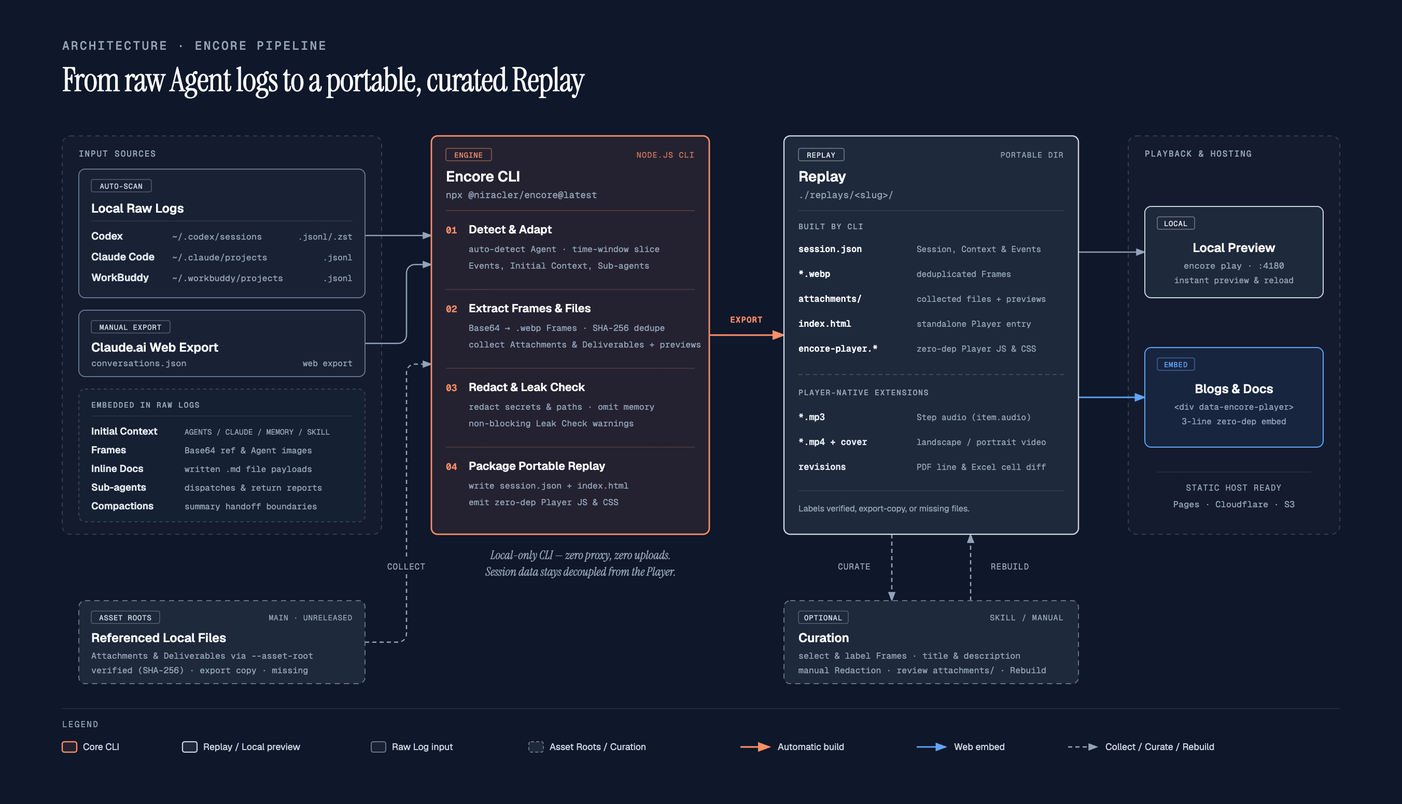
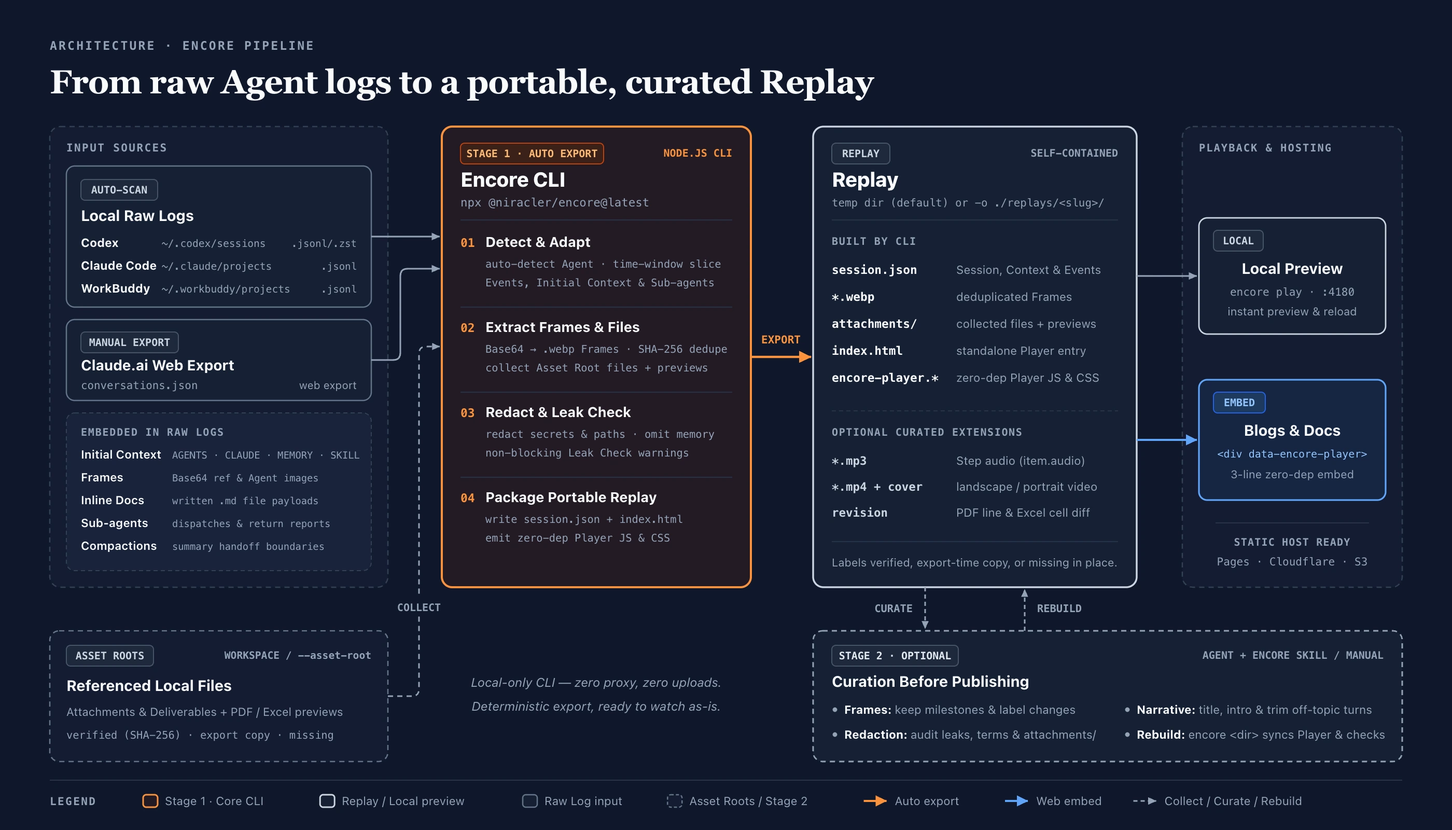
docs(readme): streamline bilingual docs, FAQ, and architecture diagrams

diff --git a/README.md b/README.md
@@ -30,7 +30,9 @@ Requires **Node.js >= 20.10**. No global install needed.
 npx @niracler/encore@latest
 ```
 
-Choose a recent session to open its replay in your browser.
+The interactive picker scans recent local **Codex**, **Claude Code**, and **WorkBuddy** sessions and opens the selected replay in your browser. You can also pass a `.jsonl` or `.jsonl.zst` raw log, or a Claude.ai `conversations.json` export directly.
+
+Without `-o`, replays write to a temporary directory. Pass `-o <dir>` to keep a portable copy for publishing; see `npx @niracler/encore@latest --help` for all commands and options.
 
 ---
 
@@ -40,26 +42,32 @@ Choose a recent session to open its replay in your browser.
   <picture>
     <source media="(prefers-color-scheme: dark)" srcset="./docs/architecture-en-dark.webp">
     <source media="(prefers-color-scheme: light)" srcset="./docs/architecture-en-light.webp">
-    <img src="./docs/architecture-en-light.webp" alt="Encore architecture: from raw Agent logs and referenced local files in Asset Roots to a portable Replay and standalone Player" width="100%">
+    <img src="./docs/architecture-en-light.webp" alt="Encore architecture: from raw Agent logs and referenced local files in Asset Roots, through automatic CLI export and optional pre-publish Curation, to a portable Replay and standalone Player" width="100%">
   </picture>
 </p>
 
-- **Local-only processing**: Adapters, WebP frame extraction, and automatic redaction all run locally in Node.js. Nothing is uploaded.
-- **Decoupled Session and Player**: `session.json`, extracted `.webp` frames, and collected files sit beside the zero-dependency player, so curation edits appear on browser reload.
-- **Explicit file collection (`main`, unreleased)**: On `main` ([Unreleased](./CHANGELOG.md#unreleased)), Encore collects locally referenced attachments and deliverables within allowed asset roots, generates in-place PDF and workbook previews, and labels each file as verified (matching SHA-256), an export-time copy, or missing. Quick Start runs npm release `0.2.0`, which extracts only embedded media and inline `.md` documents.
+- **Local-only processing**: Adapters, `.webp` frame extraction, automatic redaction, and leak checks all run locally in Node.js. Nothing is uploaded.
+- **Decoupled Session and Player**: `session.json`, extracted `.webp` frames, and collected files live beside the zero-dependency player, so edits to `session.json` appear on browser reload.
+- **Explicit file collection boundaries**: Encore collects locally referenced attachments and deliverables within allowed asset roots (defaulting to the current directory and native session workspace; override with `--asset-root`), builds in-place PDF and workbook previews, and labels each file as verified (matching SHA-256), an export-time copy, or missing.
 
 ---
 
 ## Curating Before Publishing (Optional)
 
-For personal review or internal archiving, the CLI export is ready to watch as-is—no skill needed.
+For personal review or internal archiving, the CLI export is ready to watch as-is—no skill needed. When preparing a replay for a blog, course, or public showcase, pair the export with the companion `encore` skill for a semantic curation pass.
 
-Before publishing a replay to a blog, course, or showcase, raw exports usually need an editorial pass: picking milestone frames, writing a clear title and opening description, trimming off-topic turns, and removing internal names that regex cannot catch. Because that requires reading context and inspecting images, Encore ships a companion `encore` skill for your Agent:
+**What the CLI handles automatically**
 
-| Stage | Handled by | What it does |
-| --- | --- | --- |
-| **Export** | Encore CLI (deterministic) | Converts the raw log, extracts `.webp` frames, redacts common secrets, paths, emails, and private IPs, and builds a standalone replay |
-| **Curate** | Agent + `encore` skill (semantic) | Inspects and labels milestone frames, writes the title and opening description, redacts internal codenames, names, and figures, trims off-topic turns, and rebuilds the replay |
+- Adapts the raw log, extracts deduplicated `.webp` frames, collects referenced attachments and deliverables from asset roots, and builds in-place previews
+- Redacts common API keys, private keys, JWTs, database URLs, emails, private IPs, and home paths, omits cross-session `MEMORY_SUMMARY` and user-level `CLAUDE.md` bodies by default, and runs a non-blocking leak check
+- Packages a standalone replay directory with the zero-dependency player
+
+**What the `encore` skill adds during curation**
+
+- **Curate & label frames**: Inspects `.webp` frames, drops noisy intermediate states, keeps key milestones, and replaces fallback labels with concrete descriptions
+- **Write intro & trim turns**: Drafts a concise `title` and opening `description` from full context, and trims off-topic opening or closing turns
+- **Manual redaction & file review**: Reviews leak check warnings, removes internal codenames, people's names, and business figures regex cannot detect, and audits raw files in `attachments/`
+- **Lossless rebuild**: Runs `npx @niracler/encore@latest <replay-dir>` to refresh player assets and previews, sync `<title>`, drop deleted frame references, and re-run the leak check without overwriting curation edits or added media
 
 Install the skill globally (or copy [`skills/encore/SKILL.md`](./skills/encore/SKILL.md) manually):
 
@@ -73,13 +81,13 @@ Then ask your Agent from any workspace:
 Use the encore skill to export my latest session and curate it for publishing.
 ```
 
-**Before sharing**: Automatic redaction only rewrites `session.json`; it never modifies copied PDFs, workbooks, images, or videos in `attachments/`. Review `session.json`, every kept `.webp` frame, and all packaged attachments and deliverables before publishing.
+> **Review before sharing**: Automatic redaction only rewrites `session.json`; it never modifies copied PDFs, workbooks, images, or videos in `attachments/`. Review `session.json`, every kept `.webp` frame, and all packaged attachments and deliverables before publishing.
 
 ---
 
 ## Embedding on Any Site
 
-Deploy the generated replay directory to GitHub Pages, Cloudflare Pages, Vercel, or any static host—or embed the player in an existing HTML page with three lines:
+Export with `-o ./replays/<slug>` and deploy the entire replay directory to GitHub Pages, Cloudflare Pages, Vercel, or any static host—or embed the player in an existing HTML page with three lines:
 
 ```html
 <link rel="stylesheet" href="./encore-player.css">
@@ -87,44 +95,10 @@ Deploy the generated replay directory to GitHub Pages, Cloudflare Pages, Vercel,
 <script src="./encore-player.js" defer></script>
 ```
 
-Omit `data-lang` to follow the language set in `session.json`.
+Omit `data-lang` to follow the language set in `session.json`. The player also natively renders optional curated extensions in `session.json`, including per-step audio (`item.audio`), landscape/portrait video switching, and PDF/workbook revision diffs.
 
 <details>
-<summary><strong>CLI Reference &amp; <code>session.json</code> Schema</strong></summary>
-
-### CLI Options
-
-The interactive picker scans `~/.codex/sessions`, `~/.claude/projects`, and `~/.workbuddy/projects`. You can also pass a `.jsonl` or `.jsonl.zst` raw log, or a Claude.ai `conversations.json` export directly.
-
-```text
-Usage:
-  encore                              Scan recent Codex, Claude Code & WorkBuddy sessions and pick one interactively
-  encore <log.jsonl | dir> [options]  Build a replay from a raw log, or rebuild an existing replay directory
-  encore play <dir> [--port 4180]     Start local preview server for an existing replay directory
-
-Options:
-  -o, --out <dir>          Output directory (default: temporary directory on main; ./replays/<session-slug> in 0.2.0)
-      --asset-root <dir>   Set allowed asset roots for attachments and deliverables (repeatable; unreleased on main)
-  -l, --lang <zh|en|auto>  Player UI language (default: auto; also toggleable in the topbar)
-      --title <text>       Override session title
-      --desc <text>        Set opening description shown before playback starts
-      --from <iso-time>    Start time window filter (e.g. 2026-11-10T09:00)
-      --to <iso-time>      End time window filter
-      --no-images          Skip extracting embedded images to .webp
-      --image-width <px>   Max width for extracted WebP frames (default: 960)
-      --clip <chars>       Max chars per tool input/output (default: 1500/2000)
-      --conversation <id>  Conversation UUID for multi-chat Claude.ai exports
-      --include-memory     Include full cross-session MEMORY_SUMMARY and user-level CLAUDE.md text (omitted by default)
-      --list               List recent local sessions without interactive prompt
-      --serve              Start local HTTP preview server after building
-      --no-serve           Do not start local HTTP preview server
-      --no-open            Do not automatically open browser when serving
-  -p, --port <number>      Preview server port (default: 4180)
-  -v, --version            Show version number
-  -h, --help               Show help message
-```
-
-### `session.json` Schema
+<summary><strong><code>session.json</code> Schema</strong></summary>
 
 Formal JSON Schema: [`schema/session.schema.json`](./schema/session.schema.json) (`https://encore.niracler.com/schema/session.schema.json`) · TypeScript Definitions: [`src/index.d.ts`](./src/index.d.ts)
 
@@ -150,28 +124,38 @@ Formal JSON Schema: [`schema/session.schema.json`](./schema/session.schema.json)
 
 </details>
 
-<details>
-<summary><strong>FAQ</strong></summary>
+---
 
-**Does Encore upload my logs? How does redaction work?**
-No. Everything runs locally. During export, automatic redaction hides common API keys, private keys, JWTs, database credentials, emails, private IPs, and home directory paths (`~`). Cross-session `MEMORY_SUMMARY` and user-level `CLAUDE.md` bodies are omitted by default, and the leak check flags suspicious internal domains or URL token parameters without blocking export. Project codenames, business figures, and sensitive content inside frames, attachments, or deliverables still require manual review.
+## FAQ
 
-**Will deleting the original log or workspace files break a replay?**
-Everything packaged inside the replay directory (`session.json`, `.webp` frames, `attachments/`, and player files) stays playable after the raw log or workspace files are removed. Keep the replay directory intact; links to external URLs still depend on their hosts.
+### Does Encore upload my logs? How does redaction work?
 
-**Why doesn't double-clicking `index.html` (`file://`) work?**
-The player loads `./session.json` with `fetch()`, which browsers block on `file://` URLs for security reasons. Preview locally with `npx @niracler/encore@latest play ./replays/<session-slug>`, or serve the folder from any static host.
+**No—everything runs locally.**
 
-**Why is an attachment or deliverable missing, or marked as an export-time copy?**
-On `main` (unreleased), Encore collects locally referenced files from messages and handoff tools within allowed asset roots (defaulting to the current directory and native session workspace; override with `--asset-root`). Files written silently by shell commands may not be referenced, and missing files keep only their filename in place. When a file is found, the player marks it as verified only if its SHA-256 matches a digest recorded during the session; otherwise it is labeled as an export-time copy.
+- **Automatic redaction**: Hides common API keys, private keys, JWTs, database URLs, emails, private IPs, and home directory paths (replaced with `~`), omits cross-session `MEMORY_SUMMARY` and user-level `CLAUDE.md` bodies by default, and runs a non-blocking leak check.
+- **Manual review still needed**: Project codenames, business figures, and raw files copied into `attachments/` (PDFs, workbooks, images, videos) are never rewritten automatically.
 
-**Are the context-window token counts exact billing figures?**
-No—context snapshots visualize structure and growth rather than provider billing. When a raw log records actual token counts (including `preTokens` and `postTokens` around compactions), Encore displays them directly; when per-step totals or the 7 context categories are missing, Encore estimates proportions from content length.
+### Why doesn't double-clicking `index.html` work?
 
-**What if a raw replay is too long or has too many frames?**
-Pass `--from` and `--to` (ISO timestamps) to slice a specific time window during export. You can also curate `frames[]`, `items[]`, `title`, and `description` in `session.json`, then run `npx @niracler/encore@latest ./replays/<session-slug>` to rebuild player assets, sync `<title>`, drop references to deleted frames, and re-run the leak check. Rebuilding an existing replay preserves curation edits and added media, whereas re-importing from the raw log regenerates `.webp` frames.
+Browser security rules block `fetch('./session.json')` on `file://` URLs. Open the replay through the local preview server, or deploy the folder to any static host:
 
-</details>
+```bash
+npx @niracler/encore@latest play ./replays/<slug>
+```
+
+### Will deleting the raw log or source files break a replay?
+
+**No.** A replay directory is a self-contained static bundle (`session.json`, `.webp` frames, `attachments/`, and player assets). Keep the directory intact; only external URLs still depend on their hosts.
+
+### Why is an attachment labeled as an export-time copy or missing?
+
+- **Verified**: Found inside an allowed asset root with a SHA-256 matching the digest recorded in the session.
+- **Export-time copy**: Found at export time, but no matching session digest exists or the file changed afterward.
+- **Missing / Outside asset roots**: Referenced in the log, but absent on disk or outside the allowed asset roots (pass `--asset-root` to include another directory; the filename stays visible under the message).
+
+### Are token counts in the Context Snapshot exact billing figures?
+
+**No.** They visualize context structure and growth: when a raw log includes real token counts (including `preTokens` / `postTokens` around compactions), Encore displays them directly; when per-step totals or category breakdowns are missing, it estimates from content length.
 
 ---
 

diff --git a/README.zh-CN.md b/README.zh-CN.md
@@ -30,7 +30,9 @@
 npx @niracler/encore@latest
 ```
 
-选择一段最近的会话，浏览器就会打开回放。
+命令会扫描本机最近的 **Codex**、**Claude Code** 与 **WorkBuddy** 会话，选中后在浏览器中打开回放；也可以直接传入 `.jsonl`、`.jsonl.zst` 或 Claude.ai 导出的 `conversations.json`。
+
+未传 `-o` 时，回放默认写入系统临时目录；需要保存可移植副本或部署时，传入 `-o <目录>`。完整子命令与选项见 `npx @niracler/encore@latest --help`。
 
 ---
 
@@ -40,26 +42,32 @@ npx @niracler/encore@latest
   <picture>
     <source media="(prefers-color-scheme: dark)" srcset="./docs/architecture-zh-dark.webp">
     <source media="(prefers-color-scheme: light)" srcset="./docs/architecture-zh-light.webp">
-    <img src="./docs/architecture-zh-light.webp" alt="Encore 处理架构：从原始 Agent 日志与资产根目录内的本地文件，到可独立托管的回放目录与零依赖播放器" width="100%">
+    <img src="./docs/architecture-zh-light.webp" alt="Encore 处理架构：从原始 Agent 日志与资产根目录内的本地文件，经 CLI 自动导出与可选的发布前整理，生成可独立托管的回放目录与零依赖播放器" width="100%">
   </picture>
 </p>
 
-- **全本地离线运行**：日志适配、WebP 画面帧转码与自动脱敏都在本地 Node.js 环境中完成，不上传任何数据。
-- **会话数据与播放器分离**：`session.json`、提取出的 `.webp` 画面帧和收录文件与零依赖播放器同目录存放，整理修改后刷新页面即可生效。
-- **明确的文件收集边界（`main` 未发布）**：在 `main` 分支（[未发布更新](./CHANGELOG.md#unreleased)）中，Encore 会收集资产根目录内日志明确引用的附件与交付物，生成 PDF 与表格的页内预览，并在原消息下标注「已核对版本」「导出时的副本」或「原文件缺失」。上方快速开始命令运行的是 npm 已发布的 `0.2.0` 版本，仅提取内嵌媒体与内联 `.md` 文稿。
+- **全本地离线运行**：日志适配、`.webp` 画面帧转码、自动脱敏与泄露检查都在本地 Node.js 环境中完成，不上传任何数据。
+- **会话数据与播放器分离**：`session.json`、提取出的 `.webp` 画面帧与收录文件都与零依赖播放器同目录存放，编辑 `session.json` 后刷新页面即可生效。
+- **明确的文件收集边界**：自动收集允许的资产根目录（默认为当前工作目录与原始会话工作区，可用 `--asset-root` 覆盖）内日志明确引用的附件与交付物，生成 PDF 与表格的页内预览，并在原消息下标注「已核对版本」「导出时的副本」或「原文件缺失」。
 
 ---
 
 ## 发布前整理（可选）
 
-如果只是个人复盘或内部留档，CLI 导出的回放已经可以直接看，不需要安装技能。
+个人复盘或内部留档时，CLI 导出的回放已经可以直接观看，不需要安装技能。准备公开发布到博客、课程或展示页时，可以配合 `encore` 技能在导出结果上做一轮语义整理。
 
-如果要把回放公开发布到博客、课程或展示页，原始导出通常还需要一轮整理：筛选关键画面帧、撰写清晰的标题与开场说明、裁剪无关轮次，并去掉正则识别不出的内部名称与业务细节。这些步骤需要读懂上下文和查看图片，因此 Encore 配套提供了给 Agent 使用的 `encore` 技能：
+**CLI 自动导出已完成**
 
-| 阶段 | 执行方式 | 完成的工作 |
-| --- | --- | --- |
-| **导出** | Encore CLI（确定性处理） | 转换原始日志、提取 `.webp` 画面帧，对常见密钥、本机路径、邮箱与内网 IP 自动脱敏，并生成独立回放 |
-| **整理** | Agent + `encore` 技能（语义整理） | 逐张查看并标注里程碑画面帧、撰写标题与开场说明、脱敏内部代号、人名与业务数据、裁剪无关轮次，并重建回放 |
+- 转换原始日志，提取去重 `.webp` 画面帧，收集资产根目录内引用的附件与交付物并生成页内预览
+- 对常见密钥、私钥、JWT、数据库连接串、邮箱、内网 IP 与本机路径自动脱敏，默认省略 `MEMORY_SUMMARY` 与用户级 `CLAUDE.md` 正文，并输出非阻塞泄露检查预警
+- 打包独立的回放目录与零依赖播放器
+
+**`encore` 技能负责发布前整理**
+
+- **筛选与标注画面帧**：逐张查看 `.webp` 画面帧，剔除报错与冗余中间态，只保留里程碑画面并写清变化标签
+- **撰写导读与裁剪轮次**：结合上下文撰写标题（`title`）与开场说明（`description`），删去首尾无关轮次
+- **人工脱敏与附件复核**：处理泄露检查预警，清理正则识别不出的内部代号、人名与业务数据，并核对 `attachments/` 中的原件
+- **无损重建同步**：整理完成后运行 `npx @niracler/encore@latest <回放目录>`，刷新播放器与预览、同步页面 `<title>`、清理已删画面帧引用并重跑泄露检查（保留整理修改与补充媒体）
 
 全局安装该技能（或手动复制 [`skills/encore/SKILL.md`](./skills/encore/SKILL.md)）：
 
@@ -73,13 +81,13 @@ npx skills add niracler/encore -g
 用 encore 技能把我刚才那段对话导出并整理一下。
 ```
 
-**公开分享前请复核**：自动脱敏只改写 `session.json`，不会修改 `attachments/` 中复制进来的 PDF、工作簿、图片或视频原件。发布前请检查 `session.json`、保留的 `.webp` 画面帧，以及所有打包的附件和交付物。
+> **公开分享前请复核**：自动脱敏只改写 `session.json`，不会修改 `attachments/` 中复制进来的 PDF、工作簿、图片或视频原件。发布前请检查 `session.json`、保留的 `.webp` 画面帧以及所有打包的附件和交付物。
 
 ---
 
 ## 嵌入网页
 
-将生成的回放目录部署到 GitHub Pages、Cloudflare Pages、Vercel 或任意静态托管服务即可直接访问，也可通过 3 行代码嵌入已有 HTML 页面：
+使用 `-o ./replays/<会话短名>` 导出后，将整个回放目录部署到 GitHub Pages、Cloudflare Pages、Vercel 或任意静态托管服务即可直接访问，也可通过 3 行代码嵌入已有 HTML 页面：
 
 ```html
 <link rel="stylesheet" href="./encore-player.css">
@@ -87,44 +95,10 @@ npx skills add niracler/encore -g
 <script src="./encore-player.js" defer></script>
 ```
 
-省略 `data-lang` 时，界面语言自动跟随 `session.json` 的设置。
+省略 `data-lang` 时，界面语言自动跟随 `session.json` 的设置。播放器同时原生支持在 `session.json` 中手动挂载步骤音频（`item.audio`）、横竖屏视频切换与 PDF / 表格修订对照。
 
 <details>
-<summary><strong>CLI 参数与 <code>session.json</code> 结构</strong></summary>
-
-### CLI 参数
-
-会话选择器扫描 `~/.codex/sessions`、`~/.claude/projects` 和 `~/.workbuddy/projects`。也可以直接传入 `.jsonl`、`.jsonl.zst` 日志或 Claude.ai 导出的 `conversations.json`。
-
-```text
-用法：
-  encore                              扫描本机最近的 Codex、Claude Code 与 WorkBuddy 会话，上下键选择导出
-  encore <log.jsonl | dir> [options]  从原始日志生成回放目录，或重建已有回放目录
-  encore play <dir> [--port 4180]     启动本地预览服务
-
-常用参数：
-  -o, --out <dir>          输出目录（main 默认为系统临时目录；0.2.0 为 ./replays/<会话短名>）
-      --asset-root <dir>   指定允许收集附件与交付物的资产根目录，可重复使用（main 未发布功能）
-  -l, --lang <zh|en|auto>  界面语言（默认：auto，网页右上角也可一键切换）
-      --title <text>       自定义回放标题
-      --desc <text>        自定义开场导读说明
-      --from <iso-time>    起始时间切片（如 2026-11-10T09:00）
-      --to <iso-time>      结束时间切片
-      --no-images          不提取内嵌图片
-      --image-width <px>   提取的 WebP 最大宽度（默认：960）
-      --clip <chars>       单条工具输入/输出最大保留字符数（默认：1500/2000）
-      --conversation <id>  Claude.ai 多会话导出包中指定会话 UUID
-      --include-memory     保留完整的跨会话 MEMORY_SUMMARY 与用户级 CLAUDE.md 正文（默认省略正文）
-      --list               仅列出本机最近会话，不进入交互菜单
-      --serve              生成后启动本地预览服务
-      --no-serve           生成文件后直接退出，不启动本地预览服务
-      --no-open            启动预览服务时不自动打开浏览器
-  -p, --port <number>      本地预览端口（默认：4180）
-  -v, --version            显示版本号
-  -h, --help               显示帮助信息
-```
-
-### `session.json` 核心字段
+<summary><strong><code>session.json</code> 核心结构</strong></summary>
 
 JSON Schema 规范：[`schema/session.schema.json`](./schema/session.schema.json)（`https://encore.niracler.com/schema/session.schema.json`）；TypeScript 类型声明：[`src/index.d.ts`](./src/index.d.ts)。
 
@@ -150,28 +124,38 @@ JSON Schema 规范：[`schema/session.schema.json`](./schema/session.schema.json
 
 </details>
 
-<details>
-<summary><strong>常见问题（FAQ）</strong></summary>
+---
 
-**日志会上传吗？隐私和密钥怎么处理？**
-不会。所有处理都在本地完成。导出时，自动脱敏会隐藏常见 API 密钥、私钥、JWT、数据库连接串、邮箱、内网 IP 与本机用户目录路径（替换为 `~`）；跨会话 `MEMORY_SUMMARY` 与用户级 `CLAUDE.md` 默认省略正文，泄露检查会对疑似内网域名与 URL 凭据参数发出非阻塞提示。项目代号、业务数据，以及画面帧、附件和交付物原件中的敏感内容仍需人工复核。
+## 常见问题
 
-**导出后删除原始日志或工作区文件，会影响回放吗？**
-已经打包进回放目录的内容（`session.json`、`.webp` 画面帧、`attachments/` 与播放器文件）不依赖原始日志和原工作区。保持整个回放目录完整即可；指向外部网站的链接仍依赖原地址。
+### 日志会上传吗？隐私怎么处理？
 
-**为什么双击 `index.html`（`file://` 协议）无法播放？**
-播放器通过 `fetch('./session.json')` 加载数据，浏览器安全策略会拦截 `file://` 协议下的本地请求。本地预览请运行 `npx @niracler/encore@latest play ./replays/<会话短名>`；部署到静态托管服务后即可直接访问。
+**不会，全部在本地运行。**
 
-**为什么有些附件或交付物显示缺失，或标为导出时的副本？**
-在 `main` 分支（未发布）中，Encore 会从允许的资产根目录（默认为当前工作目录与原始会话工作区，可用 `--asset-root` 覆盖）收集消息和交付工具明确引用的本地文件。由脚本直接写入磁盘且未被显式引用的文件不会自动收集；若引用的原文件已不存在，原消息下仍会保留文件名并提示缺失。找到文件后，只有 SHA-256 与会话记录的校验值一致时才会标明版本已核对，否则标明为导出时的副本。
+- **自动脱敏**：隐藏常见密钥、私钥、JWT、数据库连接串、邮箱、内网 IP 与本机用户目录（替换为 `~`），默认省略 `MEMORY_SUMMARY` 与用户级 `CLAUDE.md` 正文，并输出非阻塞泄露检查预警。
+- **需人工复核**：项目代号、业务数据，以及 `attachments/` 里复制进来的原件（PDF、工作簿、图片、视频）不会被自动改写。
 
-**右侧上下文面板的 Token 数值是实际账单数字吗？**
-不是。上下文快照用于观察上下文结构与增长趋势，不替代服务商账单。原始日志包含真实 Token 统计（含压缩前后的 `preTokens` 与 `postTokens`）时，面板直接显示记录值；缺少步级统计或 7 个上下文分类明细时，按内容长度估算占比。
+### 为什么双击 `index.html` 无法播放？
 
-**原始回放太长或画面帧太多，如何精简？**
-导出时可用 `--from` 与 `--to` 按 ISO 时间范围切片。也可以直接整理 `session.json` 中的 `frames[]`、`items[]`、`title` 与 `description`，再运行 `npx @niracler/encore@latest ./replays/<会话短名>` 重建播放器文件、同步页面 `<title>`、清理无效画面帧引用并重新运行泄露检查。重建不会覆盖手工整理与新增媒体；若从原始日志重新导出到同一目录，则会重新提取 `.webp` 画面帧。
+浏览器安全策略会拦截 `file://` 协议下的 `fetch('./session.json')` 请求。用本地预览服务打开，或部署到任意静态托管即可：
 
-</details>
+```bash
+npx @niracler/encore@latest play ./replays/<会话短名>
+```
+
+### 导出后删掉原始日志或原文件，回放会坏吗？
+
+**不会。** 回放目录是自包含的静态包（`session.json`、`.webp` 画面帧、`attachments/` 与播放器文件），保持整个目录完整即可；只有外链 URL 仍依赖原地址。
+
+### 为什么附件会标为「导出时的副本」或「原文件缺失」？
+
+- **已核对版本**：文件在允许的资产根目录内找到，且 SHA-256 与日志记录一致。
+- **导出时的副本**：文件在导出时找到了，但日志里没有可比对的摘要或内容已变化。
+- **原文件缺失 / 未收录**：日志引用了该文件，但导出时在磁盘上已找不到，或位于资产根目录之外（可用 `--asset-root` 补充目录；原消息下会保留文件名）。
+
+### 上下文快照里的 Token 数值是实际账单吗？
+
+**不是。** 它用于观察上下文结构与增长趋势：原始日志带真实统计（含压缩前后 `preTokens` / `postTokens`）时直接显示，缺失步级或分类明细时按内容长度估算。
 
 ---
 
